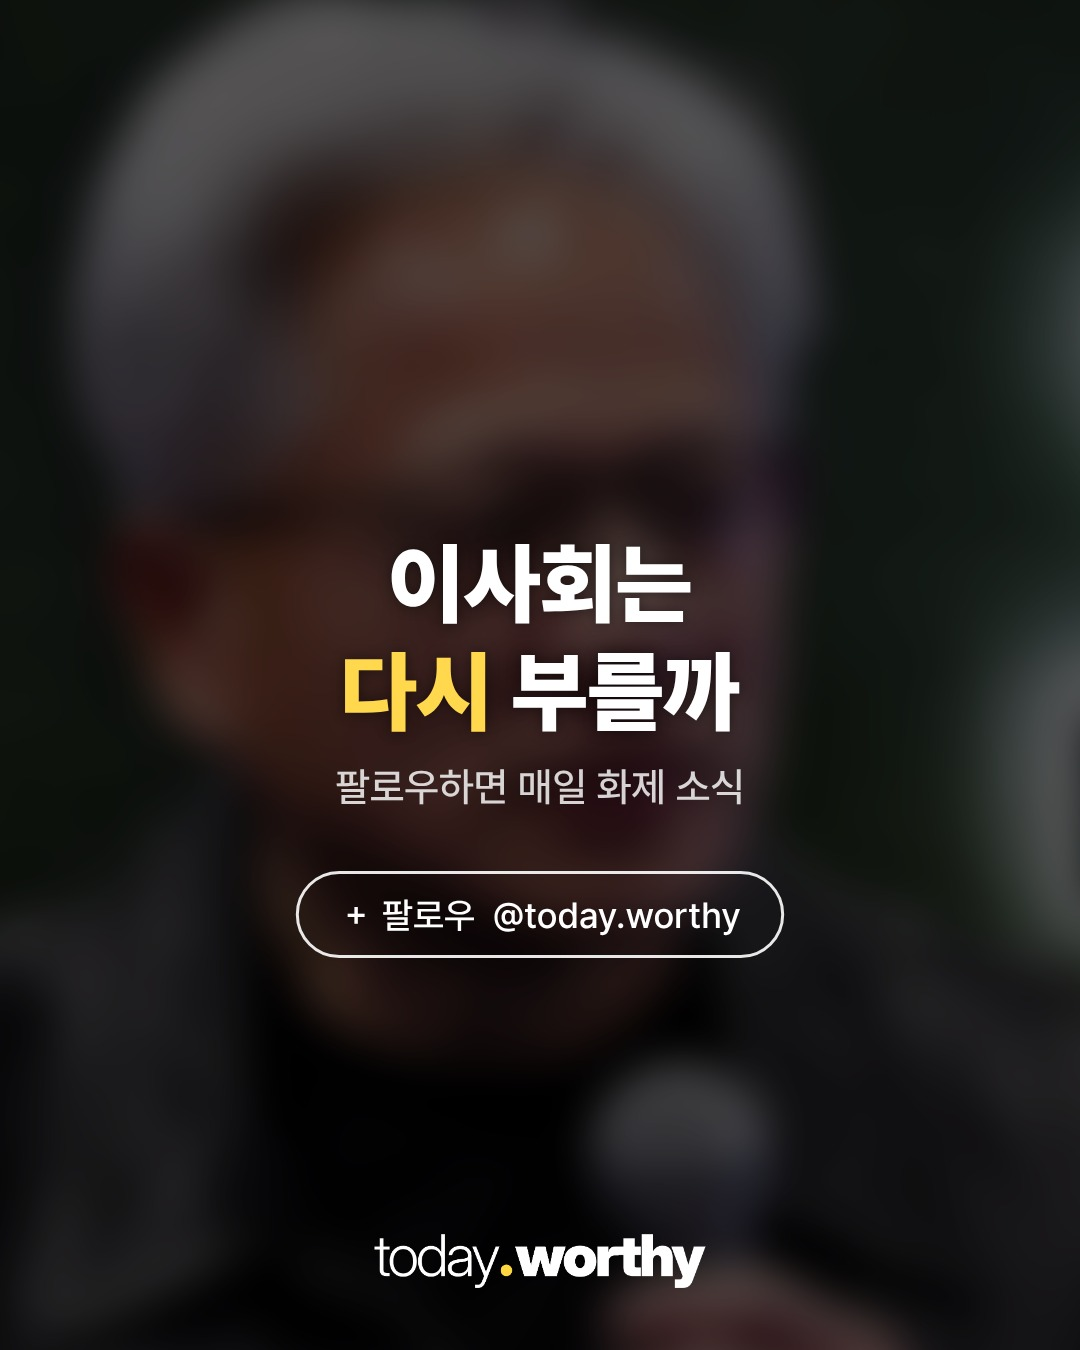
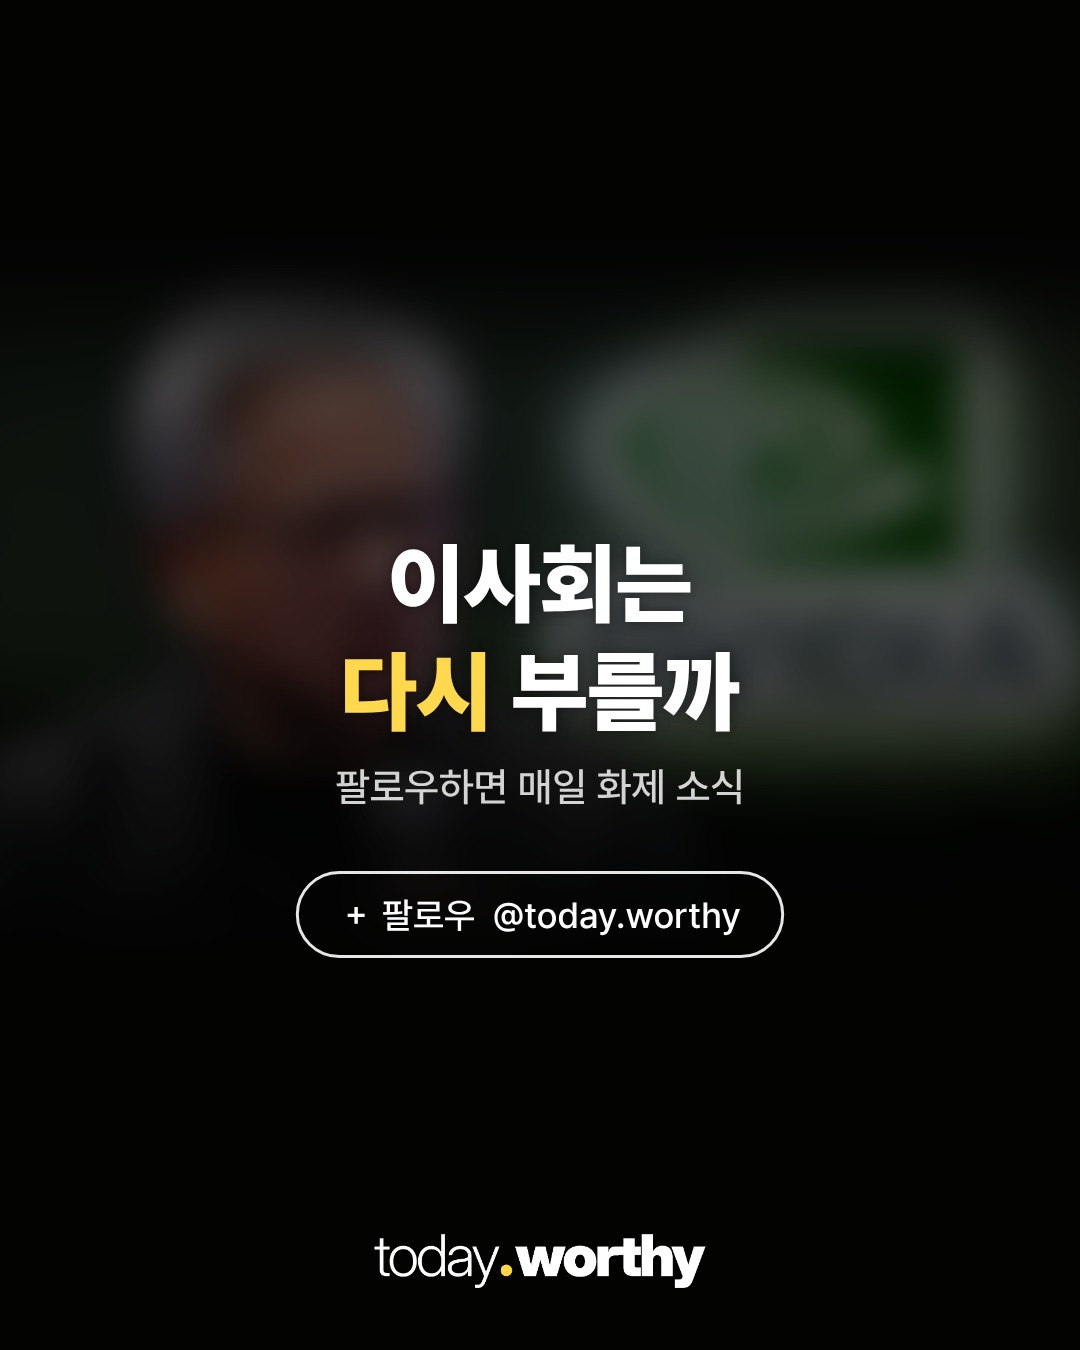
jhreturn 표지: 젠슨+엔비디아 로고 함께
Claude-Session: https://claude.ai/code/session_01FGsw5QnWxFUsnopcB1Czie

diff --git a/media/20261117-jhreturn/build_cards.py b/media/20261117-jhreturn/build_cards.py
@@ -21,5 +21,12 @@ specs = [
 ]
 sp = O / "specs.json"; sp.write_text(json.dumps(specs, ensure_ascii=False))
 subprocess.run([sys.executable, str(R / "scripts/post_cap_card.py"), str(sp)], check=True)
-ImageOps.fit(Image.open(O / "chip.jpg").convert("RGB"), (W, H), Image.LANCZOS, centering=(.2, .3)).save(O / "cover_bg.jpg", quality=95)
+# 표지(사용자): 젠슨 황과 엔비디아 로고가 함께 보이게 가로 사진을 폭에 맞춰 위쪽에 크게, 아래는 어둡게 이어 글자 자리
+ph = Image.open(O / "chip.jpg").convert("RGB"); ph = ph.resize((W, round(ph.height * W / ph.width)), Image.LANCZOS)
+bgc = (10, 12, 10); cov = Image.new("RGB", (W, H), bgc); top = 300; cov.paste(ph, (0, top))
+g = Image.new("L", (W, 240)); g.putdata([int(255 * y / 239) for y in range(240) for _ in range(W)])
+cov.paste(Image.new("RGB", (W, 240), bgc), (0, top + ph.height - 240), g)
+g2 = Image.new("L", (W, 120)); g2.putdata([int(255 * (119 - y) / 119) for y in range(120) for _ in range(W)])
+cov.paste(Image.new("RGB", (W, 120), bgc), (0, top), g2)
+cov.save(O / "cover_bg.jpg", quality=95)
 print("ok")
